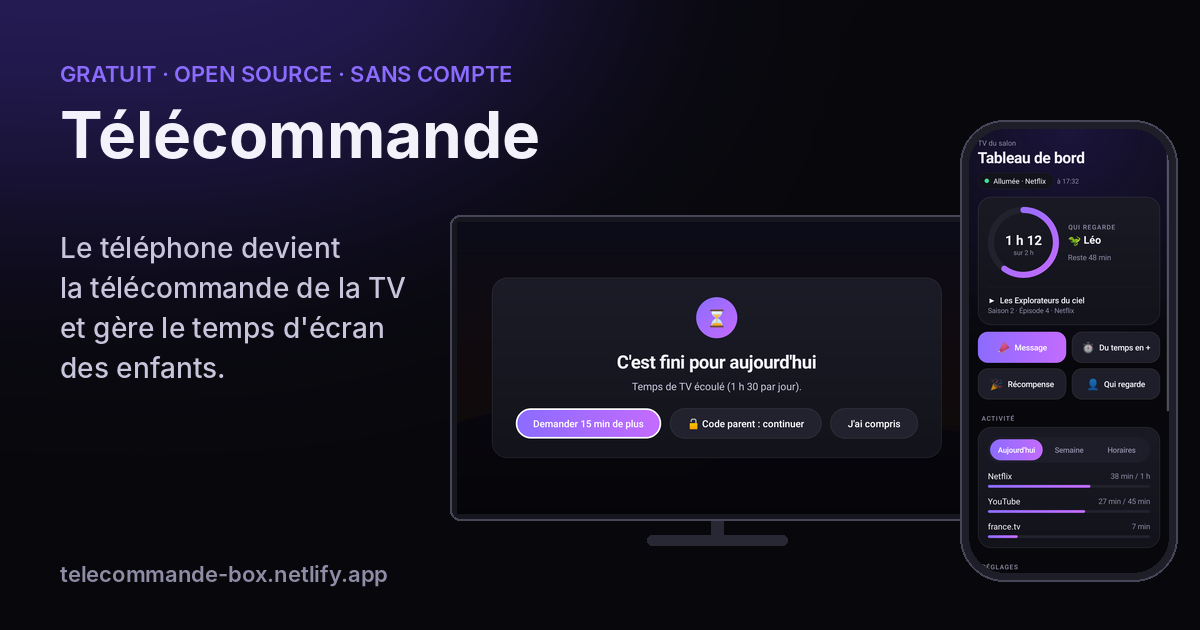
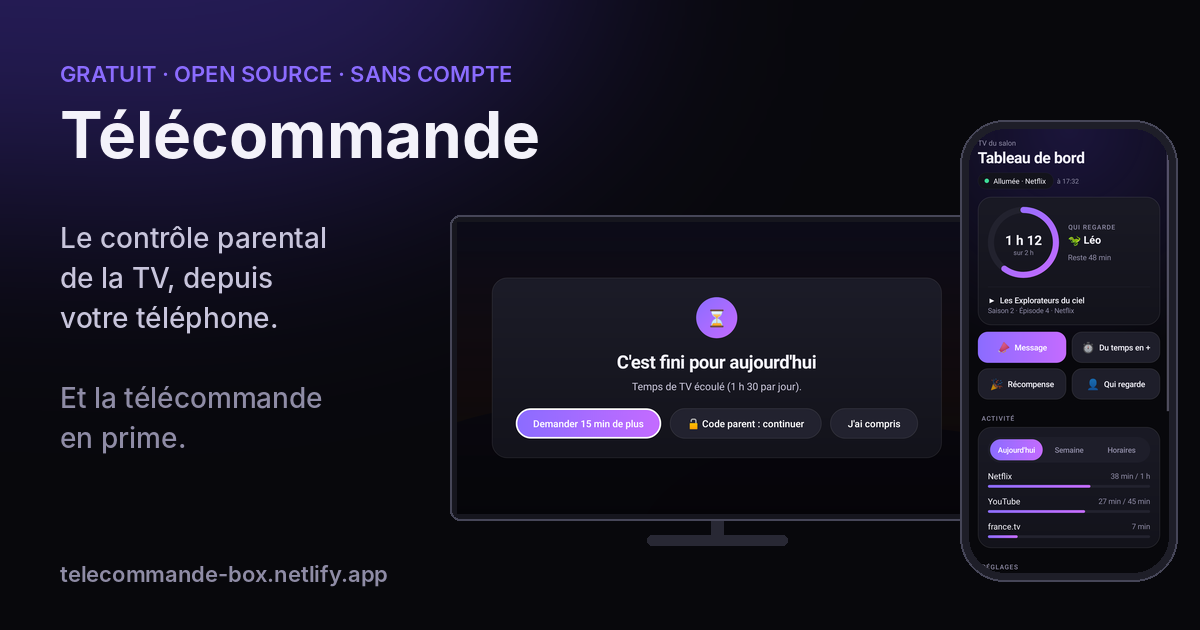
Site : le contrôle parental passe en premier
Claude-Session: https://claude.ai/code/session_01GDKg53BQs8UZDaHss4UpUu

Changed region(s): [[0.0308, 0.3619, 0.3392, 0.5429], [0.0308, 0.573, 0.2775, 0.7238]]

diff --git a/site/index.html b/site/index.html
@@ -1,10 +1,10 @@
 <!DOCTYPE html>
 <html lang="fr"><head><meta charset="utf-8"><meta name="viewport" content="width=device-width,initial-scale=1">
-<title>Télécommande : la télécommande et le contrôle parental de votre TV, sur le téléphone</title>
-<meta name="description" content="Appli Android gratuite et open source : le téléphone devient la télécommande de la TV et gère le temps d'écran des enfants. Sans compte, sans publicité, les données restent à la maison.">
+<title>Télécommande : le contrôle parental de la TV depuis votre téléphone</title>
+<meta name="description" content="Appli Android gratuite et open source : le contrôle parental de la TV depuis votre téléphone (temps d'écran, couvre-feu, profils), et une télécommande en prime. Sans compte, sans publicité, les données restent à la maison.">
 <meta property="og:type" content="website">
-<meta property="og:title" content="Télécommande : télécommande et contrôle parental pour la TV">
-<meta property="og:description" content="Gratuit, open source, sans compte. Le téléphone devient la télécommande de la TV et gère le temps d'écran des enfants.">
+<meta property="og:title" content="Télécommande : le contrôle parental de la TV, depuis votre téléphone">
+<meta property="og:description" content="Gratuit, open source, sans compte. Temps d'écran, couvre-feu et profils pour les enfants, et votre téléphone devient la télécommande.">
 <meta property="og:image" content="https://telecommande-box.netlify.app/partage.png">
 <meta property="og:url" content="https://telecommande-box.netlify.app/">
 <meta name="twitter:card" content="summary_large_image">
@@ -80,37 +80,19 @@ small{color:var(--muted)}
 </style></head><body>
 <div class="wrap">
 <nav><a class="brand" href="#">📺 Télécommande</a>
-<span class="links"><a href="#telecommande">Télécommande</a><a href="#parental">Contrôle parental</a><a href="#vie-privee">Vie privée</a><a href="#installer">Installer</a></span></nav>
+<span class="links"><a href="#parental">Contrôle parental</a><a href="#telecommande">Télécommande</a><a href="#vie-privee">Vie privée</a><a href="#installer">Installer</a></span></nav>
 
 <header class="hero">
   <div class="kicker">Appli Android · Gratuite · Open source</div>
-  <h1>Le téléphone devient la télécommande de la TV.<br>Et il gère le temps d'écran.</h1>
-  <p class="lead">Deux applis qui travaillent ensemble : une sur votre téléphone, une sur la TV. Vous pilotez la TV du bout du doigt, et vous fixez les règles pour les enfants, qui s'appliquent même téléphone éteint.</p>
+  <h1>Le contrôle parental de la TV,<br>depuis votre téléphone.</h1>
+  <p class="lead">Temps d'écran par jour, couvre-feu, un profil par enfant, applis bloquées : vous fixez les règles, la TV les applique, même téléphone éteint. Et en bonus, votre téléphone devient la télécommande.</p>
   <div class="badges"><span class="badge"><b>✓</b> Sans compte</span><span class="badge"><b>✓</b> Sans publicité</span><span class="badge"><b>✓</b> Rien de payant</span><span class="badge"><b>✓</b> Les données restent à la maison</span></div>
   <a class="btn" href="#installer">Installer</a><a class="btn alt" href="https://github.com/breizh-apps56612/Bzh_remote_parental_control">Code source sur GitHub</a>
   <img class="wide" src="code-parent.gif" width="960" height="540" alt="Le temps de TV est écoulé ; l'enfant demande à continuer ; le parent valide avec son empreinte sur son téléphone ; la lecture reprend.">
 </header>
 
-<section id="telecommande">
-  <div class="split">
-    <div class="media phone"><img src="telecommande.gif" width="360" height="780" loading="lazy" alt="Démonstration des gestes du pavé tactile."></div>
-    <div>
-      <div class="kicker">1 · La télécommande</div>
-      <h2>Plus besoin de chercher la télécommande sous le canapé.</h2>
-      <ul class="ticks">
-        <li><b>Un grand pavé tactile :</b> on glisse pour se déplacer, on touche pour valider.</li>
-        <li><b>Double-toucher à gauche ou à droite</b> pour reculer ou avancer de 10 secondes.</li>
-        <li><b>Volume, chaînes, accueil, retour, lecture</b> : tout est à portée de pouce.</li>
-        <li><b>Le clavier du téléphone</b> pour taper une recherche, au lieu de la lettre par lettre.</li>
-        <li><b>Ce qui passe à l'écran</b> s'affiche en haut, avec des raccourcis adaptés.</li>
-      </ul>
-      <p class="compat">Pensée pour les box Android TV et Google TV (testée sur Freebox Pop). Elle sait aussi piloter de nombreuses TV : Samsung, LG, Sony, Philips, Panasonic, Roku, Kodi, et les télécommandes infrarouges des téléphones qui en ont.</p>
-    </div>
-  </div>
-</section>
-
 <section id="parental">
-  <div class="kicker">2 · Le contrôle parental</div>
+  <div class="kicker">1 · Le contrôle parental</div>
   <h2>Des règles claires, appliquées par la TV elle-même.</h2>
   <p class="lead">L'appli installée sur la TV surveille le temps passé et applique vos règles. Quand l'enfant veut plus de temps, c'est vous qui décidez, depuis votre téléphone.</p>
   <h3>Comment se passe une demande de temps</h3>
@@ -127,6 +109,24 @@ small{color:var(--muted)}
     <figure><img src="tv-02-qui-regarde.webp" width="960" height="540" loading="lazy" alt="Écran Qui regarde ? avec un profil par enfant."><figcaption><b>Qui regarde ?</b>Chaque enfant a son propre temps.</figcaption></figure>
     <figure><img src="tv-01-temps-ecoule.webp" width="960" height="540" loading="lazy" alt="Écran C'est fini pour aujourd'hui, avec les boutons Demander 15 min de plus et Code parent."><figcaption><b>C'est fini pour aujourd'hui</b>Il peut demander du temps, poliment.</figcaption></figure>
     <figure><img src="tv-04-message.webp" width="960" height="540" loading="lazy" alt="Message du parent affiché sur la TV."><figcaption><b>Un message sur la TV</b>« À table ! » sans crier dans l'escalier.</figcaption></figure>
+  </div>
+</section>
+
+<section id="telecommande">
+  <div class="split">
+    <div class="media phone"><img src="telecommande.gif" width="360" height="780" loading="lazy" alt="Démonstration des gestes du pavé tactile."></div>
+    <div>
+      <div class="kicker">2 · La télécommande</div>
+      <h2>En bonus : plus besoin de chercher la télécommande sous le canapé.</h2>
+      <ul class="ticks">
+        <li><b>Un grand pavé tactile :</b> on glisse pour se déplacer, on touche pour valider.</li>
+        <li><b>Double-toucher à gauche ou à droite</b> pour reculer ou avancer de 10 secondes.</li>
+        <li><b>Volume, chaînes, accueil, retour, lecture</b> : tout est à portée de pouce.</li>
+        <li><b>Le clavier du téléphone</b> pour taper une recherche, au lieu de la lettre par lettre.</li>
+        <li><b>Ce qui passe à l'écran</b> s'affiche en haut, avec des raccourcis adaptés.</li>
+      </ul>
+      <p class="compat">Pensée pour les box Android TV et Google TV (testée sur Freebox Pop). Elle sait aussi piloter de nombreuses TV : Samsung, LG, Sony, Philips, Panasonic, Roku, Kodi, et les télécommandes infrarouges des téléphones qui en ont.</p>
+    </div>
   </div>
 </section>
 
